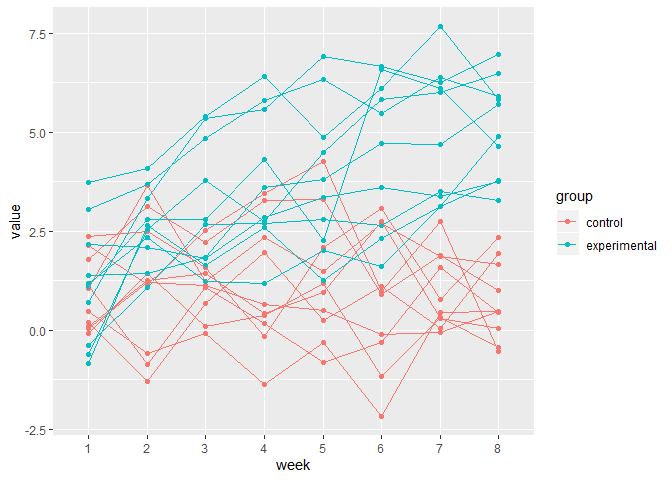
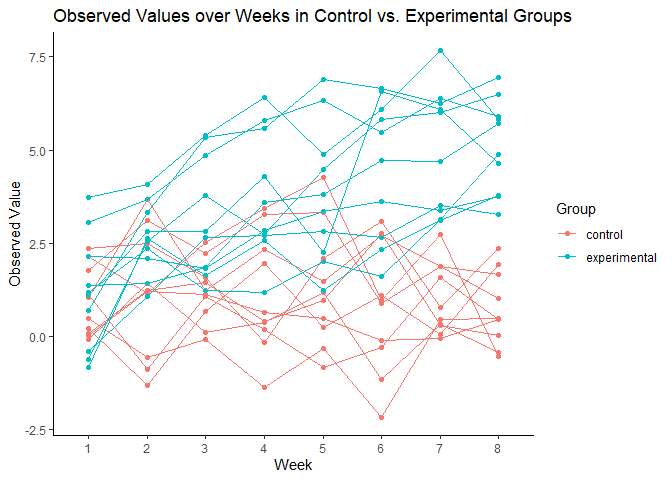
chnage of labels and aesthetics

diff --git a/p8105_hw5_ha2546.md b/p8105_hw5_ha2546.md
@@ -313,7 +313,16 @@ long_data_tidy = long_data %>%
   ggplot(data = long_data_tidy, aes(x = week, y = value, color = group)) +
   geom_point(data = subset(long_data_tidy, group %in% c("control","experimental"))) +
   geom_line(data=subset(long_data_tidy, group == "control"), aes(group=case_ID, color = group)) +
-  geom_line(data=subset(long_data_tidy, group == "experimental"), aes(group=case_ID, color = group))
+  geom_line(data=subset(long_data_tidy, group == "experimental"), aes(group=case_ID, color = group)) +
+  labs(
+    x = "Week",
+    y = "Observed Value",
+    color = "Group",
+    title = "Observed Values over Weeks in Control vs. Experimental Groups"
+  ) +
+  theme_classic()
 ```
 
 ![](p8105_hw5_ha2546_files/figure-gfm/spaghetti_plot-1.png)<!-- -->
+
+As it can be observed
